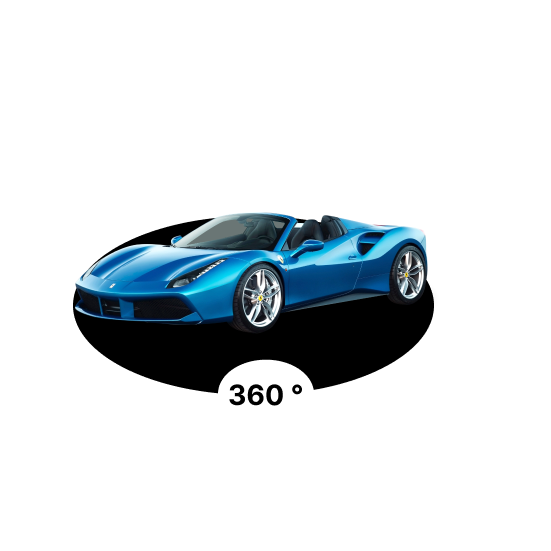
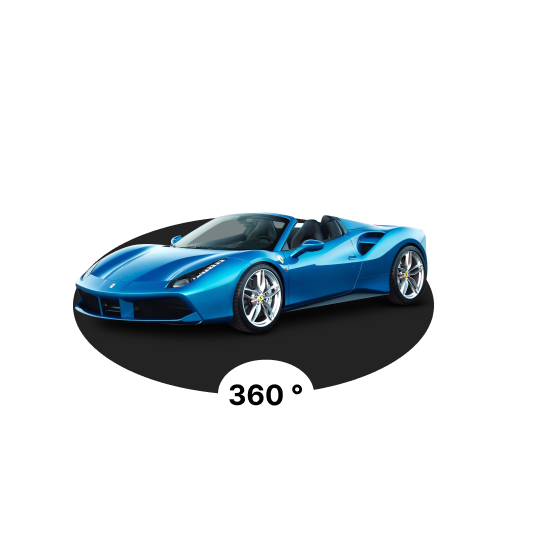
Fixing Issue [brightness] added

Changed region(s): [[0.1234, 0.5245, 0.8022, 0.7096], [0.1851, 0.4011, 0.3702, 0.4628]]

diff --git a/lib/features/authentication/views/onboarding/widgets/b_onboarding_page.dart b/lib/features/authentication/views/onboarding/widgets/b_onboarding_page.dart
@@ -1,15 +1,22 @@
+import 'package:bencar/features/authentication/views/login/login_screen.dart';
 import 'package:bencar/features/authentication/views/onboarding/widgets/dot_indicator_row.dart';
-import 'package:bencar/utils/constants/colors.dart';
 import 'package:bencar/utils/constants/image_strings.dart';
 import 'package:bencar/utils/constants/sizes.dart';
 import 'package:bencar/utils/constants/text_strings.dart';
+import 'package:bencar/utils/helpers/helper_functions.dart';
 import 'package:flutter/material.dart';
+import 'package:get/get.dart';
 
-class OnBoradingPage extends StatelessWidget {
-  const OnBoradingPage({super.key});
+class BOnBoradingPage extends StatelessWidget {
+  const BOnBoradingPage({Key? key}) : super(key: key);
 
   @override
   Widget build(BuildContext context) {
+    final isDarkMode = BHelperFunctions.isDarkMode(context);
+    final imageAsset = isDarkMode ? BImages.darkCar360 : BImages.lightCar360;
+
+    print('$isDarkMode');
+
     return Scaffold(
       body: Padding(
         padding: const EdgeInsets.all(BSizes.defaultSpace),
@@ -17,21 +24,21 @@ class OnBoradingPage extends StatelessWidget {
           crossAxisAlignment: CrossAxisAlignment.center,
           mainAxisAlignment: MainAxisAlignment.spaceEvenly,
           children: [
-            const Image(
-              image: AssetImage(BImages.darkCar360),
+            Image(
+              image: AssetImage(imageAsset),
             ),
             Text(
               BTexts.onBoardingTitle2,
               style: Theme.of(context).textTheme.headlineMedium!.apply(
                     fontSizeFactor: 1.2,
-                    color: BColors.primary,
                   ),
+              textAlign: TextAlign.center,
             ),
             const DotIndicatorRow(),
             SizedBox(
               width: double.infinity,
               child: ElevatedButton(
-                onPressed: () => {},
+                onPressed: () => Get.off(() => const LoginScreen()),
                 child: const Text(BTexts.tGetStarted),
               ),
             ),

diff --git a/lib/myapp.dart b/lib/myapp.dart
@@ -1,6 +1,7 @@
 import 'package:bencar/utils/constants/colors.dart';
 import 'package:bencar/utils/themes/theme.dart';
 import 'package:flutter/material.dart';
+import 'package:get/get.dart';
 
 import 'features/authentication/views/onboarding/onboarding_screen.dart';
 
@@ -10,20 +11,17 @@ class MyApp extends StatelessWidget {
   // This widget is the root of your application.
   @override
   Widget build(BuildContext context) {
-    return MaterialApp(
+    return GetMaterialApp(
       debugShowCheckedModeBanner: false,
       themeMode: ThemeMode.light,
+      theme: BappTheme.lightTheme,
       darkTheme: BappTheme.darkTheme,
       title: 'Bencar App',
-      theme: BappTheme.lightTheme,
-      home: const Scaffold(
+      home: Scaffold(
         backgroundColor: BColors.primaryBackground,
-        body: OnboardinScreen(),
-        // body: Center(
-        //   child: CircularProgressIndicator(
-        //     color: BColors.primary,
-        //   ),
-        // ),
+        body: Scaffold(
+          body: OnboardinScreen(),
+        ),
       ),
     );
   }

diff --git a/lib/features/authentication/views/onboarding/onboarding_screen.dart b/lib/features/authentication/views/onboarding/onboarding_screen.dart
@@ -1,14 +1,27 @@
+import 'package:bencar/features/authentication/views/onboarding/widgets/b_landing.dart';
 import 'package:flutter/material.dart';
 
 import 'widgets/b_onboarding_page.dart';
 
 class OnboardinScreen extends StatelessWidget {
-  const OnboardinScreen({super.key});
+  OnboardinScreen({super.key});
+
+  final List<Widget> pages = [
+    const BLandingCar(),
+    const BOnBoradingPage(),
+
+    // Add more pages if needed
+  ];
 
   @override
   Widget build(BuildContext context) {
-    return const Scaffold(
-      body: OnBoradingPage(),
+    return Scaffold(
+      body: PageView.builder(
+        itemCount: pages.length,
+        itemBuilder: (context, index) {
+          return pages[index];
+        },
+      ),
     );
   }
 }

diff --git a/lib/utils/themes/theme.dart b/lib/utils/themes/theme.dart
@@ -10,6 +10,7 @@ class BappTheme {
   static ThemeData lightTheme = ThemeData(
     useMaterial3: true,
     primaryColor: BColors.primary,
+    brightness: Brightness.light,
     fontFamily: 'Poppins',
     scaffoldBackgroundColor: BColors.white,
     textTheme: BTextTheme.lightTextTheme,
@@ -19,8 +20,9 @@ class BappTheme {
   static ThemeData darkTheme = ThemeData(
     useMaterial3: true,
     primaryColor: BColors.primaryWhite,
+    brightness: Brightness.dark,
     fontFamily: 'Poppins',
-    scaffoldBackgroundColor: BColors.black,
+    scaffoldBackgroundColor: BColors.dark,
     textTheme: BTextTheme.darkTextTheme,
     elevatedButtonTheme: BElevatedButtonTheme.darktElevatedButtonTheme,
   );

diff --git a/lib/utils/constants/colors.dart b/lib/utils/constants/colors.dart
@@ -16,7 +16,7 @@ class BColors {
 
   // Background colors
   static const Color light = Color(0xFFF6F6F6);
-  static const Color dark = Color(0xFF272727);
+  static const Color dark = Color(0xFF232323);
   static const Color primaryBackground = Color(0xFFF3F5FF);
 
   // Background Container colors
@@ -39,7 +39,7 @@ class BColors {
   static const Color info = Color(0xFF1976D2);
 
   // Neutral Shades
-  static const Color black = Color(0xFF232323);
+  static const Color black = Color(0xFF101010);
   static const Color darkerGrey = Color(0xFF1F222A);
   static const Color dark2 = Color(0xFF1F222A);
   static const Color dark3 = Color(0xFF35383F);

diff --git a/lib/utils/themes/text_themes/elevated_button_theme.dart b/lib/utils/themes/text_themes/elevated_button_theme.dart
@@ -18,7 +18,7 @@ class BElevatedButtonTheme {
       textStyle: const TextStyle(
         color: Colors.white,
         fontSize: 16,
-        fontWeight: FontWeight.w800,
+        fontWeight: FontWeight.w600,
       ),
       shape: RoundedRectangleBorder(
         borderRadius: BorderRadius.circular(100),
@@ -40,7 +40,7 @@ class BElevatedButtonTheme {
       textStyle: const TextStyle(
         color: BColors.primary,
         fontSize: 16,
-        fontWeight: FontWeight.w800,
+        fontWeight: FontWeight.w600,
       ),
       shape: RoundedRectangleBorder(
         borderRadius: BorderRadius.circular(100),

diff --git a/lib/utils/constants/image_strings.dart b/lib/utils/constants/image_strings.dart
@@ -13,8 +13,8 @@ class BImages {
   static const String facebook = "assets/logos/facebook-icon.png";
   // -- 360 image
   static const String lightCar360 = "assets/images/cars/car360_transparant.png";
-  static const String darkCar360 = "assets/images/cars/car360_transparant.png";
-  static const String car360 = "assets/images/cars/car360_transparan_dark";
+  static const String darkCar360 =
+      "assets/images/cars/car360_transparant_dark.png";
 
   // -- Category Icons
   static const String sportIcon =

diff --git a/lib/features/authentication/views/onboarding/widgets/b_dot_indicator.dart b/lib/features/authentication/views/onboarding/widgets/b_dot_indicator.dart
@@ -21,9 +21,9 @@ class BDotIndicator extends StatelessWidget {
     return BRoundedContainer(
       backgroundColor: isSlected
           ? isDarkMode
-              ? BColors.primaryWhite
+              ? BColors.white
               : BColors.primary
-          : BColors.grey,
+          : BColors.dark3,
       width: width,
       height: height,
     );

diff --git a/lib/features/authentication/views/login/login_screen.dart b/lib/features/authentication/views/login/login_screen.dart
@@ -1,0 +1,14 @@
+import 'package:flutter/material.dart';
+
+class LoginScreen extends StatelessWidget {
+  const LoginScreen({super.key});
+
+  @override
+  Widget build(BuildContext context) {
+    return Scaffold(
+      appBar: AppBar(
+        automaticallyImplyLeading: true,
+      ),
+    );
+  }
+}
